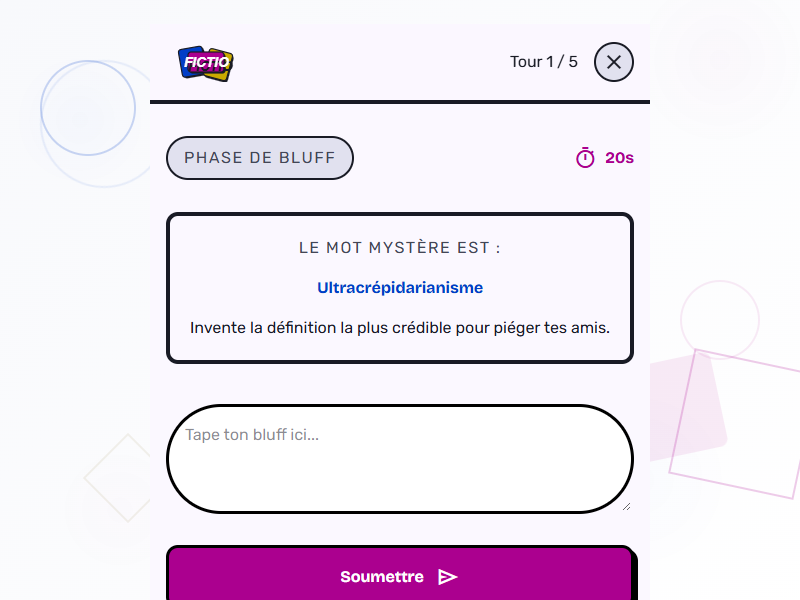
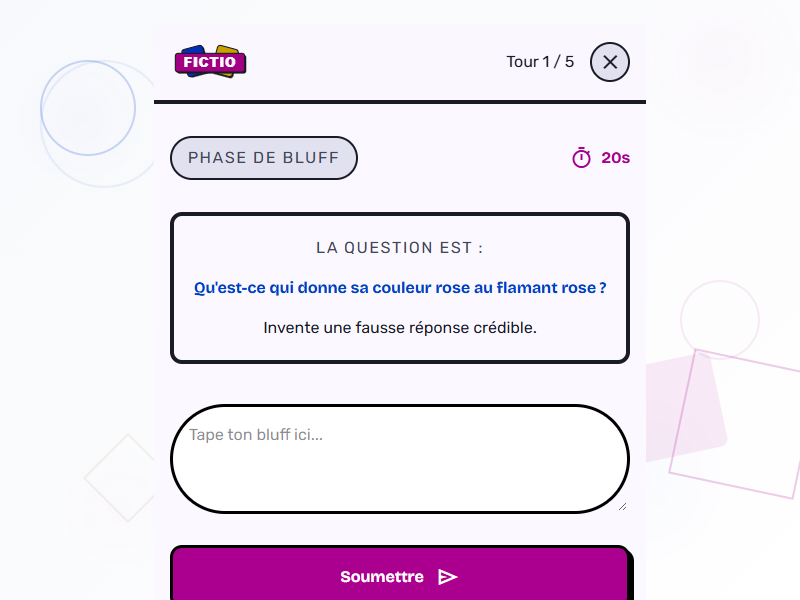
feat: empty bluffs, instant voting, vote countdown, podium button text

diff --git a/src/views/GameView.vue b/src/views/GameView.vue
@@ -38,8 +38,9 @@ const checkFastForward = () => {
     }
     
     if (room.value.phase === 'voting' && players.value.length > 0 && players.value.every(p => p.hasVoted)) {
-        if (timeRemaining.value > 0 && !isTransitioning) {
-            handleTimerEnd();
+        const newEndsAt = Date.now() + 3500; // 3 seconds countdown
+        if (room.value.phaseEndsAt && room.value.phaseEndsAt > newEndsAt) {
+            updateDoc(doc(db, 'rooms', roomCode), { phaseEndsAt: newEndsAt });
         }
     }
 };
@@ -114,8 +115,7 @@ onMounted(async () => {
       
       if (timeRemaining.value === 0) {
         if (room.value.phase === 'bluffing' && myPlayer.value && !myPlayer.value.hasSubmitted) {
-            bluffText.value = bluffText.value.trim() || 'Pas d\'idée !';
-            submitBluff();
+            submitBluff(true);
         }
         if (isHost.value) {
             handleTimerEnd();
@@ -142,8 +142,17 @@ const quitGame = () => {
     router.push('/');
 };
 
-const submitBluff = async () => {
-    if (!bluffText.value.trim() || myPlayer.value?.hasSubmitted) return;
+const submitBluff = async (autoSubmit: boolean = false) => {
+    if (!autoSubmit && !bluffText.value.trim()) return;
+    if (myPlayer.value?.hasSubmitted) return;
+    
+    let textToSubmit = bluffText.value.trim();
+    let isEmpty = false;
+    
+    if (autoSubmit && !textToSubmit) {
+        textToSubmit = `${myPlayer.value?.name || 'Le joueur'} n'a rien écrit 😴`;
+        isEmpty = true;
+    }
     
     const roomRef = doc(db, 'rooms', roomCode);
     const pRef = doc(db, `rooms/${roomCode}/players`, myId!);
@@ -155,23 +164,22 @@ const submitBluff = async () => {
     batch.update(roomRef, { 
         propositions: [...currentProps, {
             playerId: myId!,
-            text: bluffText.value.trim(),
-            voters: []
+            text: textToSubmit,
+            voters: [],
+            isEmpty: isEmpty
         }]
     });
     
     await batch.commit();
 };
 
-const submitVote = async () => {
-    if (selectedPropositionIndex.value === null || myPlayer.value?.hasVoted) return;
+const submitVote = async (index: number) => {
+    if (myPlayer.value?.hasVoted) return;
     
-    const prop = shuffledPropositions.value[selectedPropositionIndex.value];
-    // Cannot vote for own bluff
-    if (prop.playerId === myId) {
-        alert("Tu ne peux pas voter pour ton propre bluff !");
-        return;
-    }
+    const prop = shuffledPropositions.value[index];
+    if (prop.playerId === myId || prop.isEmpty) return;
+    
+    selectedPropositionIndex.value = index;
     
     const roomRef = doc(db, 'rooms', roomCode);
     const pRef = doc(db, `rooms/${roomCode}/players`, myId!);
@@ -345,24 +353,27 @@ const nextRound = async () => {
             <p class="font-body-lg text-on-surface-variant">Votez pour la réponse qui vous semble correcte.</p>
           </div>
 
-          <div v-if="!myPlayer?.hasVoted" class="grid grid-cols-1 md:grid-cols-2 gap-6 w-full max-w-4xl">
+          <div class="grid grid-cols-1 md:grid-cols-2 gap-6 w-full max-w-4xl">
               <button 
                 v-for="(prop, index) in shuffledPropositions" 
                 :key="index"
-                @click="selectedPropositionIndex = index"
-                :class="['border-4 border-on-surface rounded-xl p-4 text-left flex flex-col bg-surface transition-transform hover:translate-y-[-2px]', selectedPropositionIndex === index ? 'border-secondary shadow-[0_0_0_4px_#ab008f]' : 'brutal-shadow']"
+                @click="submitVote(index)"
+                :disabled="prop.playerId === myId || prop.isEmpty || myPlayer?.hasVoted"
+                :class="[
+                   'border-4 border-on-surface rounded-xl p-4 text-left flex flex-col transition-all duration-300', 
+                   selectedPropositionIndex === index ? 'border-secondary shadow-[0_0_0_4px_#ab008f] scale-[1.02] bg-secondary' : 'bg-surface brutal-shadow',
+                   !myPlayer?.hasVoted && prop.playerId !== myId && !prop.isEmpty ? 'hover:translate-y-[-2px] hover:shadow-[0_0_0_4px_#ab008f]' : '',
+                   (prop.playerId === myId || prop.isEmpty) ? 'opacity-50 cursor-not-allowed filter grayscale' : '',
+                   myPlayer?.hasVoted && selectedPropositionIndex !== index ? 'opacity-50' : ''
+                ]"
               >
-                 <p class="font-body-lg text-on-surface flex-grow">{{ prop.text }}</p>
+                 <p class="font-body-lg flex-grow" :class="selectedPropositionIndex === index ? 'text-white' : 'text-on-surface'">{{ prop.text }}</p>
+                 <span v-if="prop.playerId === myId" class="text-xs font-label-bold mt-2 opacity-70" :class="selectedPropositionIndex === index ? 'text-white' : 'text-on-surface'">Ton bluff</span>
+                 <span v-if="prop.isEmpty" class="text-xs font-label-bold mt-2 opacity-70 text-on-surface">Vote impossible</span>
               </button>
           </div>
-          <div v-else class="text-center font-headline-sm text-on-surface-variant animate-pulse">
+          <div v-if="myPlayer?.hasVoted" class="text-center font-headline-sm text-on-surface-variant animate-pulse mt-8">
               Vote enregistré ! En attente...
-          </div>
-
-          <div v-if="!myPlayer?.hasVoted" class="mt-8 w-full max-w-md">
-              <button @click="submitVote" :disabled="selectedPropositionIndex === null" class="w-full btn-brutal bg-secondary text-on-secondary rounded-lg font-headline-sm py-4 flex items-center justify-center gap-2">
-                 <span class="material-symbols-outlined">how_to_vote</span> Valider
-              </button>
           </div>
       </div>
 
@@ -409,7 +420,7 @@ const nextRound = async () => {
 
           <div v-if="isHost" class="mt-8 w-full max-w-md">
               <button @click="nextRound" class="w-full btn-brutal bg-tertiary-fixed text-on-surface rounded-lg font-headline-sm py-4">
-                  Tour Suivant
+                  {{ room.currentRound >= room.maxRounds ? 'Voir le podium' : 'Tour Suivant' }}
               </button>
           </div>
           <div v-else class="mt-8 animate-pulse text-on-surface-variant font-label-bold">

diff --git a/src/types.ts b/src/types.ts
@@ -8,10 +8,11 @@ export type Player = {
   avatarColor?: string; // e.g. bg-primary, bg-secondary
 };
 
-export type Proposition = {
-  playerId: string; // 'true_answer' for the real one
+export interface Proposition {
+  playerId: string; // ID du joueur ou 'true_answer'
   text: string;
-  voters: string[]; // array of playerIds
+  voters: string[]; // Liste des IDs de joueurs ayant voté pour cette prop
+  isEmpty?: boolean;
 };
 
 export type Room = {